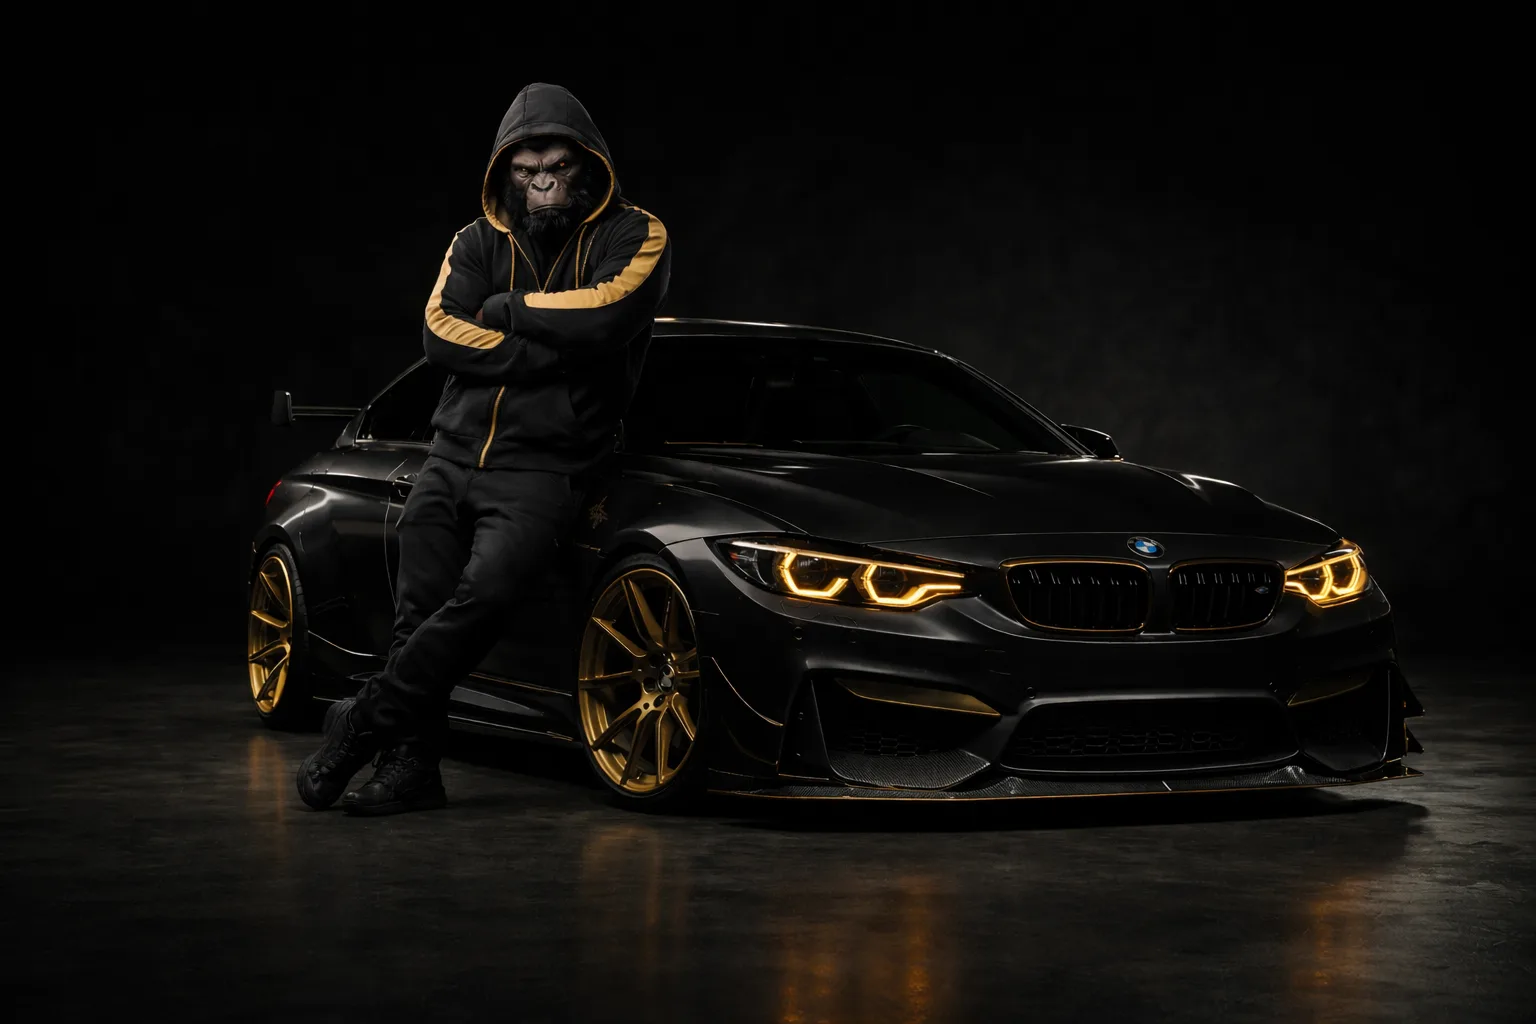
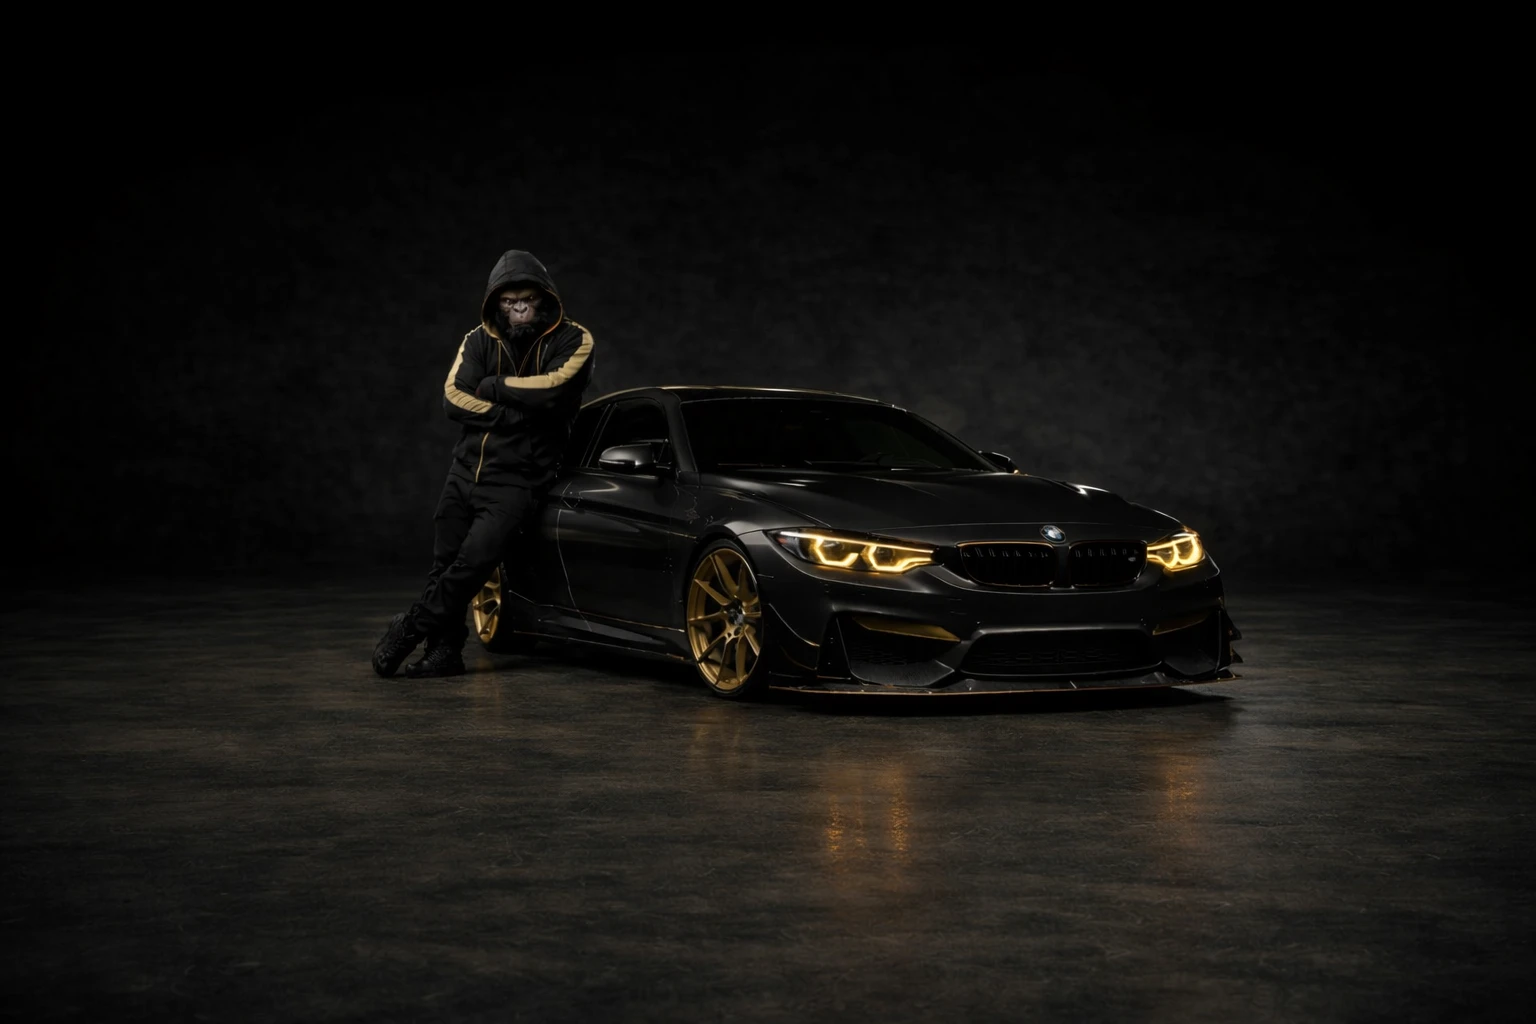
feat(hero): replace hero background with new hero_bg image (WebP)
Converted hero_bg.png from Downloads to WebP (96KB, 1536×1024).
Replaced existing placeholder and set object-cover object-center so
the full figure is visible on all screen sizes.

Changed region(s): [[0.0938, 0.0625, 1.0, 1.0], [0.4375, 0.3125, 0.5, 0.3438]]

diff --git a/src/components/Hero.tsx b/src/components/Hero.tsx
@@ -23,7 +23,7 @@ export function Hero() {
           src="/images/hero_bg.webp"
           alt="Dark Monkey Hero"
           fill
-          className="object-[35%_center] object-cover md:object-center"
+          className="object-cover object-center"
           priority
           quality={90}
           sizes="100vw"
